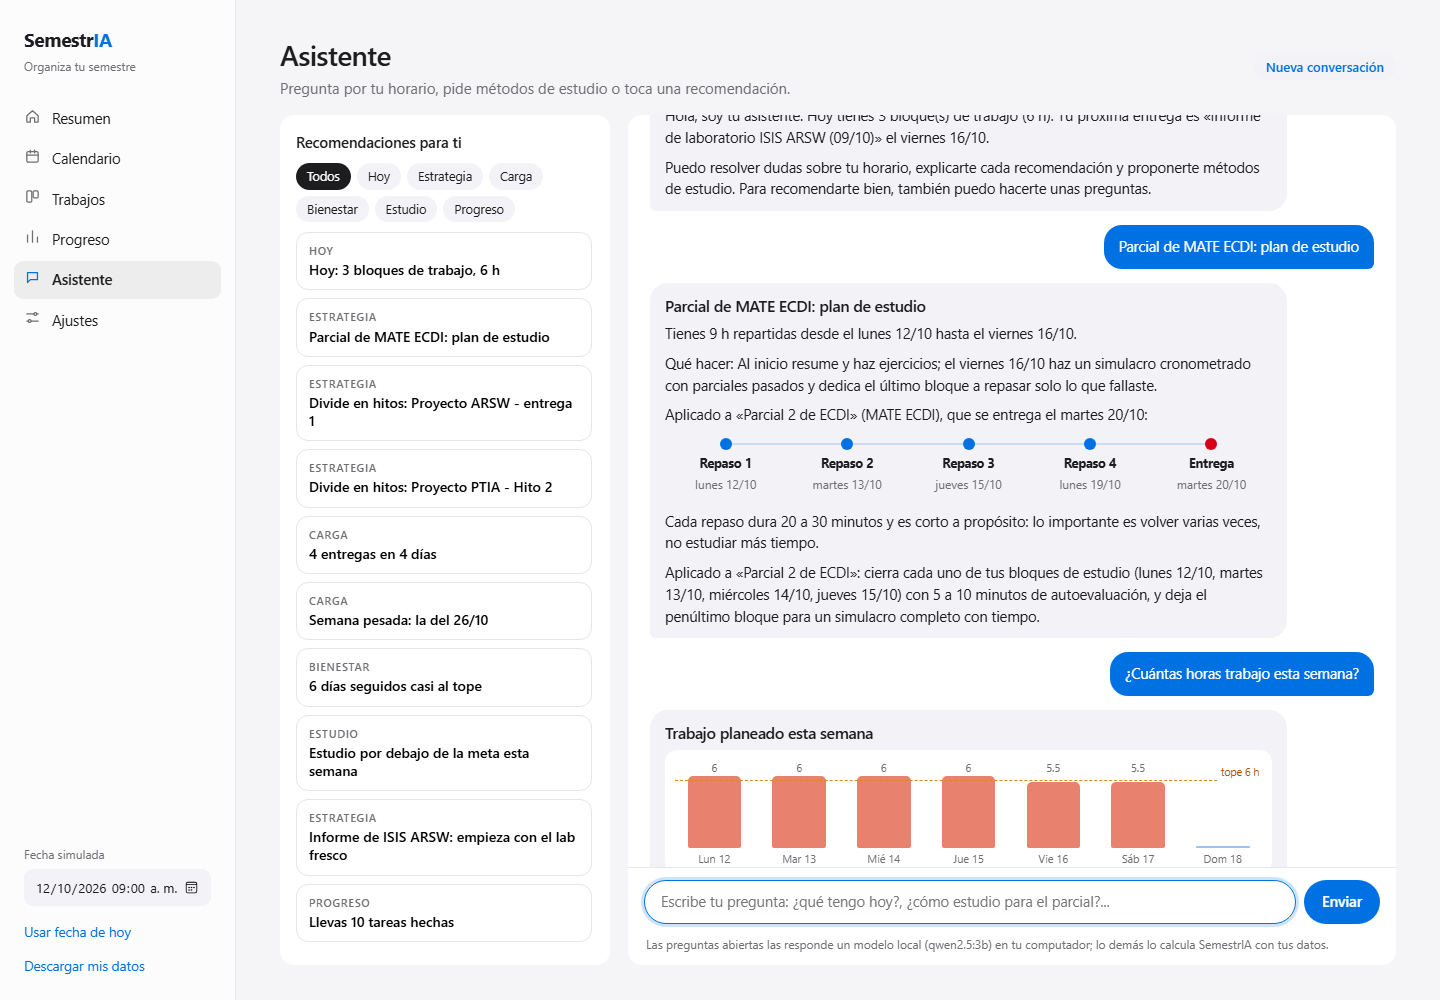
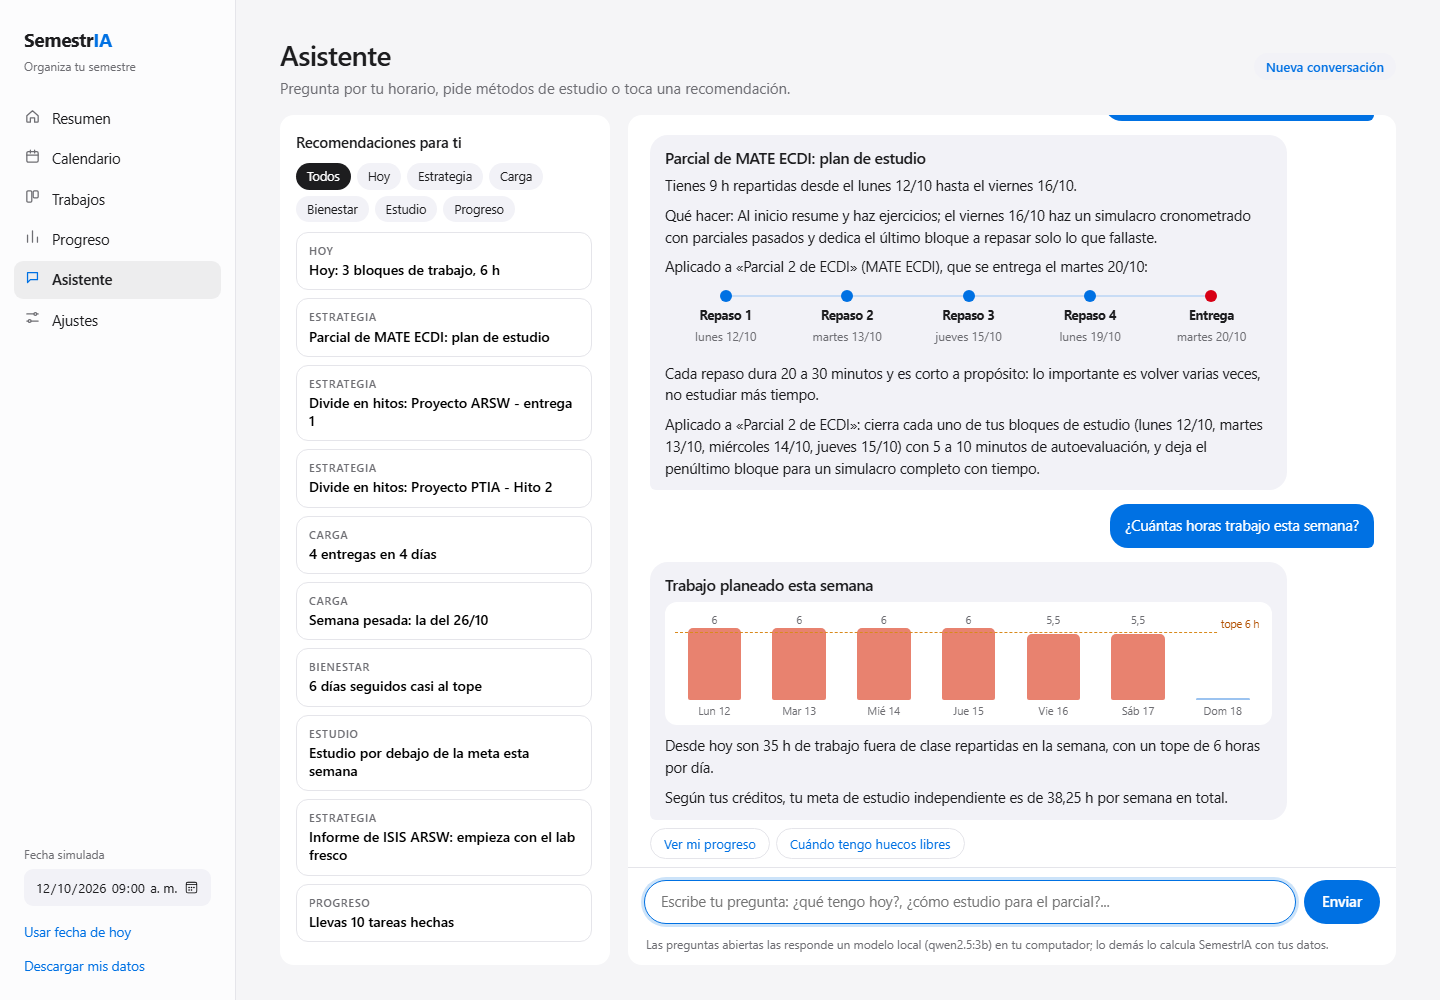
Reorganizar repo: herramientas/, sin duplicados ni capturas obsoletas; README renovado

diff --git a/documento/anexos/anexo_semestria.tex b/documento/anexos/anexo_semestria.tex
@@ -6,12 +6,12 @@
 
 \begin{verbatim}
 python servidor.py                                   # abre http://localhost:8000
-python demo.py                                       # plan en consola
+python herramientas/demo.py                                       # plan en consola
 python -m unittest discover -s pruebas -v            # pruebas automaticas
 python pruebas/evaluacion.py --figuras               # evaluacion del Hito 3
 python documento/generar_tablas.py                   # tablas y cifras del documento
-python diseno/capturar.py                            # capturas de pantalla (Edge o Chrome)
-python diseno/generar_diagramas.py                   # diagramas (requiere matplotlib)
+python herramientas/capturar.py                            # capturas de pantalla (Edge o Chrome)
+python herramientas/generar_diagramas.py                   # diagramas (requiere matplotlib)
 \end{verbatim}
 
 \textbf{Estructura:}
@@ -28,8 +28,8 @@ prototipo/          interfaz: index.html, app.js, asistente.js, estilos.css, asi
 datos/              horario_ejemplo.json (horario real del estudiante)
 pruebas/            test_motor.py, test_mvp.py, test_asistente.py, evaluacion.py
 resultados/         evaluacion.json y evaluacion.md (generados)
-documento/          este documento (LaTeX) y generar_tablas.py
-diseno/             diagramas, capturas y sus scripts
+documento/          este documento (LaTeX), con sus figuras en img/
+herramientas/      demo en consola, capturas y diagramas (scripts)
 archivo_hito2/      prototipo navegable del Hito 2 (con motor en JavaScript)
 \end{verbatim}
 

diff --git a/herramientas/capturar.py b/herramientas/capturar.py
@@ -1,8 +1,8 @@
 """Captura las pantallas del MVP con Edge/Chrome en modo headless (sin instalar nada extra).
 
-Uso:  python diseno/capturar.py
+Uso:  python herramientas/capturar.py
 Usa la ruta #demo=<pantalla> de la interfaz: fija la fecha del ejemplo (lunes 12/10/2026 09:00),
-no toca el almacenamiento del navegador del usuario y deja los PNG en diseno/pantallas_mvp/ y documento/img/.
+no toca el almacenamiento del navegador del usuario y deja los PNG en documento/img/ (pant_*.png).
 """
 import os
 import shutil
@@ -58,19 +58,16 @@ def main():
             break
         except OSError:
             time.sleep(0.2)
-    salida = os.path.join(aqui, "pantallas_mvp")
     destino = os.path.join(aqui, "..", "documento", "img")
-    os.makedirs(salida, exist_ok=True)
     os.makedirs(destino, exist_ok=True)
     perfil = tempfile.mkdtemp(prefix="semestria_perfil_")
     try:
         for nombre, demo, w, h in PANTALLAS:
-            png = os.path.join(salida, nombre + ".png")
+            png = os.path.join(destino, f"pant_{nombre}.png")
             subprocess.run([nav, "--headless", "--disable-gpu", "--hide-scrollbars", f"--user-data-dir={perfil}",
                             f"--window-size={w},{h}", "--virtual-time-budget=90000", f"--screenshot={png}", f"{base}#demo={demo}"],
                            check=True, capture_output=True, timeout=90)
             esperar(png)
-            shutil.copy(png, os.path.join(destino, f"pant_{nombre}.png"))
             print("ok", nombre)
     finally:
         srv.terminate()

diff --git a/herramientas/generar_diagramas.py b/herramientas/generar_diagramas.py
@@ -1,11 +1,12 @@
-"""Genera los diagramas de diseño (PNG) usados en el documento (MVP, Hito 3).\nUso:  python diseno/generar_diagramas.py\n"""
+"""Genera los diagramas de diseño (PNG) usados en el documento (MVP, Hito 3).\nUso:  python herramientas/generar_diagramas.py\n"""
 import os
 import matplotlib
 matplotlib.use("Agg")
 import matplotlib.pyplot as plt
 from matplotlib.patches import FancyBboxPatch, FancyArrowPatch
 
-aqui = os.path.dirname(os.path.abspath(__file__))
+aqui = os.path.join(os.path.dirname(os.path.abspath(__file__)), "..", "documento", "img")
+os.makedirs(aqui, exist_ok=True)
 NAVY, SAGE, SAGE_L, AMBER, ROSE, LAV, INK, GREY = "#1E3A5F", "#C6DEAB", "#E4F0D6", "#F7E8C3", "#F7D9D4", "#DFE3F2", "#16202B", "#6B7A89"
 plt.rcParams["font.family"] = "DejaVu Sans"
 
@@ -98,9 +99,4 @@ ax.text(10.0, 12.75, "Cada vez que el estudiante marca una tarea como hecha o ca
 ax.text(7.0, 2.25, "Las pasadas 1 y 2 usan los mismos huecos:\nprimero se ubican las entregas y solo después\nel estudio independiente.", ha="left", va="center", fontsize=9, color=GREY, linespacing=1.5)
 fig.savefig(os.path.join(aqui, "algoritmo.png"), bbox_inches="tight", facecolor="white")
 plt.close(fig)
-import shutil
-destino = os.path.join(aqui, "..", "documento", "img")
-os.makedirs(destino, exist_ok=True)
-for n in ("arquitectura.png", "algoritmo.png"):
-    shutil.copy(os.path.join(aqui, n), os.path.join(destino, n))
 print("ok")

diff --git a/herramientas/demo.py b/herramientas/demo.py
@@ -1,15 +1,17 @@
-"""Demo en consola: genera el plan recomendado con el horario real del equipo.
+"""Demo en consola: genera el plan recomendado con el horario real del estudiante.
 
-Uso:  python demo.py [archivo.json] [YYYY-MM-DD HH:MM]
+Uso:  python herramientas/demo.py [archivo.json] [YYYY-MM-DD HH:MM]
 """
+import os
 import sys
 from datetime import datetime, date
 
+sys.path.insert(0, os.path.join(os.path.dirname(os.path.abspath(__file__)), ".."))
 from motor.semestria import (DIAS, cargar, planificar, fecha, horas_independientes,
                              contacto_semanal_min, horas_totales_semana, creditos_de,
                              semana_del_semestre, paridad)
 
-ruta = sys.argv[1] if len(sys.argv) > 1 else "datos/horario_ejemplo.json"
+ruta = sys.argv[1] if len(sys.argv) > 1 else os.path.join(os.path.dirname(os.path.abspath(__file__)), "..", "datos", "horario_ejemplo.json")
 ahora = datetime.fromisoformat(sys.argv[2]) if len(sys.argv) > 2 else datetime(2026, 10, 12, 9, 0)
 datos = cargar(ruta)
 

diff --git a/README.md b/README.md
@@ -1,55 +1,73 @@
-# SemestrIA (PTIA, Escuela Colombiana de Ingeniería)
+# SemestrIA
 
-Asistente de IA que convierte el **horario fijo**, los **créditos** y los **trabajos** de un estudiante en un plan
-semanal explicable (qué trabajar, cuándo y por qué), con recomendaciones concretas y estimaciones que se calibran con
-las horas reales que registra la persona.
+Asistente de IA que convierte el **horario fijo**, los **créditos** y los **trabajos** de un estudiante en un plan semanal explicable (qué trabajar, cuándo y por qué). Incluye un asistente de chat que responde sobre el horario y recomienda métodos de estudio, y una sección de progreso.
 
-**Estado: Hito 3 (MVP).** Ver `docs/REVISION_HITOS.md` para la revisión por hitos frente a los lineamientos.
+Proyecto de curso PTIA, Escuela Colombiana de Ingeniería Julio Garavito. **Estado: Hito 3 (MVP).**
 
-## Ejecutar (Python 3.10+, sin dependencias)
+## Inicio rápido
+
+Requiere Python 3.10 o superior. No hay que instalar nada.
+
 ```bash
-python servidor.py                                 # abre http://localhost:8000
-python demo.py                                     # plan en consola
-python -m unittest discover -s pruebas -v          # 73 pruebas automáticas
-python pruebas/evaluacion.py --figuras             # evaluación del Hito 3 (resultados/ y figuras)
+python servidor.py        # abre la aplicación en http://localhost:8000
 ```
-`python diseno/capturar.py` (capturas, requiere Edge o Chrome) y `python diseno/generar_diagramas.py` (requiere matplotlib).
 
-## Flujo de uso
-**Asistente de 4 pasos:** 1) subir un horario JSON (validado) o usar el de prueba, 2) revisar horario y créditos,
-3) registrar trabajos, 4) revisión final y **Empezar mi semestre** (queda fijado).
-**Panel:** Resumen · Calendario (semana y mes) · Trabajos (tablero Por hacer / En curso / Hecho) · **Progreso** (horas cumplidas frente a las necesarias, tareas realizadas, mapa de actividad y rachas) · **Asistente** (chat) · Ajustes (calibración y asistente).
+En la pantalla de inicio se sube un horario (JSON) o se usa el de ejemplo, y se sigue el asistente de cuatro pasos hasta **Empezar mi semestre**.
 
-**Asistente.** Las recomendaciones son tarjetas: al tocar una, el chat la explica con pasos, fechas de tu plan, gráficas simples y la evidencia que la respalda. Puedes preguntar por tu horario («¿qué tengo hoy?», «¿voy atrasado?») y por métodos de estudio y bienestar; también te hace cinco preguntas y arma tu plan de estudio personal. Funciona en dos capas: lo que depende de tus datos y de los métodos lo calcula el motor (instantáneo y verificable); las preguntas abiertas las puede redactar un **modelo local con Ollama** si lo tienes instalado (se detecta solo; tus datos no salen del computador; se desactiva en Ajustes o con `SEMESTRIA_SIN_LLM=1`).
+Para ver pantallas con datos de demostración, abre `http://localhost:8000/#demo=progreso` (otros valores: `asistente`, `asistente_perfil`, `calendario`, `trabajos`, `resumen`, `ajustes`).
 
-**Qué IA usa.** Núcleo simbólico (reglas y planificación heurística EDF) con aprendizaje estadístico ligero (calibración); sin redes neuronales propias. Solo la capa opcional del chat usa un modelo de lenguaje preentrenado local. Detalle en `docs/TIPO_DE_IA.md`.
+## Qué hace
 
-**Progreso.** Se alimenta de lo que registras: marcar bloques como cumplidos, anotar las horas reales al terminar un trabajo y abrir la aplicación.
+| Sección | Para qué sirve |
+|---|---|
+| Resumen | Agenda de hoy, próximas entregas, indicadores y recomendaciones |
+| Calendario | Semana y mes, con clases, tareas, estudio y entregas; cada bloque explica su motivo |
+| Trabajos | Tablero Por hacer / En curso / Hecho; al terminar un trabajo se registran las horas reales |
+| Progreso | Horas cumplidas frente a las necesarias, tareas realizadas, mapa de actividad y rachas |
+| Asistente | Chat: explica las recomendaciones, responde sobre el horario, recomienda métodos de estudio y hace una entrevista de 5 preguntas para armar un plan personal |
+| Ajustes | Calibración aprendida y opciones del asistente |
+
+## Qué IA usa
+
+Es un sistema **simbólico** (reglas y planificación heurística EDF) con **aprendizaje estadístico ligero** (la calibración con las horas reales). No usa redes neuronales propias. Solo la capa opcional del chat usa un **modelo de lenguaje local** (Ollama, por ejemplo `qwen2.5:3b`), que redacta respuestas a preguntas abiertas y nunca decide el plan; se desactiva en Ajustes o con `SEMESTRIA_SIN_LLM=1`. Todo corre en tu computador. Detalle en [docs/TIPO_DE_IA.md](docs/TIPO_DE_IA.md).
+
+## Comandos
+
+```bash
+python -m unittest discover -s pruebas -v      # 73 pruebas automáticas
+python pruebas/evaluacion.py --figuras         # evaluación del Hito 3 (resultados/ y figuras)
+python herramientas/demo.py                    # plan en consola
+python documento/generar_tablas.py             # tablas y cifras del documento
+python herramientas/capturar.py                # capturas de pantalla (requiere Edge o Chrome)
+python herramientas/generar_diagramas.py       # diagramas (requiere matplotlib)
+```
 
 ## Estructura
+
 | Ruta | Contenido |
 |---|---|
-| `motor/semestria.py` | Planificador: créditos a horas, huecos, entregas automáticas, EDF con topes de bienestar |
-| `motor/calibracion.py` | Factor aprendido de las horas reales (promedio geométrico encogido hacia 1) |
-| `motor/asesor.py` | Validación de horarios importados y recomendaciones |
-| `motor/asistente.py` | Asistente: intenciones, métodos de estudio con evidencia, entrevista, puente opcional al modelo local |
-| `motor/progreso.py` | Estadísticas de progreso y rachas |
-| `servidor.py` | Servidor local (biblioteca estándar) y API JSON: `/api/ejemplo`, `/api/importar`, `/api/plan`, `/api/chat`, `/api/chat_llm`, `/api/asistente_estado` |
-| `prototipo/` | Interfaz (`index.html`, `app.js`, `asistente.js`, `estilos.css`, `asistente.css`) |
-| `datos/horario_ejemplo.json` | Horario real del equipo (los créditos de algunas materias son supuestos) |
-| `pruebas/` | `test_motor.py`, `test_mvp.py`, `test_asistente.py` y `evaluacion.py` (casos, simulación y calibración) |
+| `servidor.py` | Servidor local (biblioteca estándar) y API JSON |
+| `motor/` | Lógica: `semestria.py` (planificador), `calibracion.py`, `asesor.py` (validación y recomendaciones), `asistente.py` (chat y métodos de estudio), `progreso.py` |
+| `prototipo/` | Interfaz web sin dependencias (HTML, CSS y JavaScript) |
+| `datos/` | `horario_ejemplo.json`, el horario de ejemplo |
+| `pruebas/` | Pruebas unitarias y `evaluacion.py` (casos, simulación y calibración) |
 | `resultados/` | Salida de la evaluación (`evaluacion.json`, `evaluacion.md`) |
-| `documento/` | Documento del proyecto en la plantilla LaTeX (ver `documento/README.md`) |
+| `documento/` | Documento del proyecto en la plantilla LaTeX (ver [documento/README.md](documento/README.md)) |
 | `docs/` | Revisión por hitos, tipo de IA y guion del video |
-| `diseno/` | Diagramas y capturas del MVP (`pantallas_mvp/`) y sus scripts |
-| `archivo_hito2/` | Prototipo navegable del Hito 2 (con motor en JavaScript), conservado como historial |
+| `herramientas/` | Scripts de apoyo: demo en consola, capturas y diagramas |
+| `archivo_hito2/` | Prototipo del Hito 2 (con motor en JavaScript), conservado como historial |
+
+API: `GET /api/ejemplo`, `GET /api/asistente_estado`, `POST /api/importar`, `POST /api/plan`, `POST /api/chat`, `POST /api/chat_llm`.
 
 ## Formato del horario
-Ver el anexo del documento o descargar la plantilla desde la pantalla de inicio. Campos obligatorios: `semestre_inicio` y `bloques`.
 
-## Limitaciones conocidas
+Los campos obligatorios son `semestre_inicio` y `bloques`. El formato completo está en el anexo del documento, y la pantalla de inicio permite descargar una plantilla.
+
+## Limitaciones
+
 - Evaluado con un horario real y simulaciones; **no hay evaluación con usuarios**.
-- Las horas base por tipo de trabajo y los márgenes por dificultad son supuestos propios (la calibración los corrige con datos del usuario).
+- Las horas base por tipo de trabajo y los márgenes por dificultad son supuestos propios; la calibración los corrige con los datos del usuario.
 - El horario no se lee desde una imagen o PDF: entra como JSON o se arma en la interfaz.
-- Los consejos de métodos de estudio vienen de una base propia con referencias a la literatura (verificar las citas antes de usarlas en un trabajo); el modelo local, si se usa, es pequeño y puede equivocarse: sus respuestas van marcadas.
-- El estado se guarda en el navegador (localStorage); se puede descargar desde la barra lateral.
+- Los métodos de estudio vienen de una base propia con referencias a la literatura; el modelo local, si se usa, es pequeño y puede equivocarse, y sus respuestas van marcadas.
+- El estado se guarda en el navegador (localStorage) y se puede descargar desde la barra lateral.
+- Los créditos de algunas materias del horario de ejemplo son supuestos.

diff --git a/docs/GUION_VIDEO_HITO3.md b/docs/GUION_VIDEO_HITO3.md
@@ -1,17 +1,17 @@
 # Guion del video del Hito 3 (máx. 10 min)
 
-Los lineamientos piden "resultados y demo del MVP". Tiempos sugeridos para dos personas; ensayar una vez con la app abierta.
+Los lineamientos piden "resultados y demo del MVP". Tiempos sugeridos para una sola persona; ensayar una vez con la app abierta.
 
 **Preparación:** `python servidor.py`, abrir http://localhost:8000 en una ventana limpia (o con `#demo=` para datos fijos), zoom del navegador al 110 %, pestaña con `resultados/evaluacion.md` y otra con el PDF.
 
-| Tiempo | Quién | Contenido | En pantalla |
-|---|---|---|---|
-| 0:00–0:45 | A | El problema: 20 créditos = 60 h/semana, solo 21,8 en clase; 38,3 h de estudio independiente que nadie planea. Cuatro entregas en cuatro días | Diapositiva o sección *Justificación* |
-| 0:45–1:45 | B | La solución y dónde está la IA: conocimiento (créditos, dificultad), razonamiento (planificador EDF con topes) y aprendizaje (calibración). Por qué no un LLM: verificable y determinista | Figura de arquitectura |
-| 1:45–6:00 | A y B | **Demo del MVP** (ver abajo) | La aplicación |
-| 6:00–8:15 | B | Resultados: 8/8 criterios; CP1 y CP3; comparación con "último momento"; calibración | Tablas y figuras del documento |
-| 8:15–9:30 | A | Conclusiones: 2 aciertos, 2 errores, límites (sin usuarios reales) y trabajo futuro (piloto) | Sección *Conclusiones* |
-| 9:30–10:00 | A y B | Cierre y dónde está el código | Repositorio |
+| Tiempo | Contenido | En pantalla |
+|---|---|---|
+| 0:00–0:45 | El problema: 20 créditos = 60 h/semana, solo 21,8 en clase; 38,3 h de estudio independiente que nadie planea. Cuatro entregas en cuatro días | Diapositiva o sección *Justificación* |
+| 0:45–1:45 | La solución y dónde está la IA: conocimiento (créditos, dificultad), razonamiento (planificador EDF con topes) y aprendizaje (calibración). Tipo de IA: simbólica con aprendizaje estadístico, sin redes neuronales propias; el modelo de lenguaje local es opcional y no decide el plan (ver `docs/TIPO_DE_IA.md`) | Figura de arquitectura |
+| 1:45–6:00 | **Demo del MVP** (ver abajo) | La aplicación |
+| 6:00–8:15 | Resultados: 8/8 criterios; CP1 y CP3; comparación con "último momento"; calibración | Tablas y figuras del documento |
+| 8:15–9:30 | Conclusiones: 2 aciertos, 2 errores, límites (sin usuarios reales) y trabajo futuro (piloto) | Sección *Conclusiones* |
+| 9:30–10:00 | Cierre y dónde está el código | Repositorio |
 
 ## Demo (1:45–6:00)
 
@@ -22,7 +22,8 @@ Los lineamientos piden "resultados y demo del MVP". Tiempos sugeridos para dos p
 5. **Resumen** (30 s): agenda de hoy, próxima entrega y las recomendaciones principales.
 6. **Calendario** (45 s): semana, tocar un bloque y leer el motivo; pasar a **Mes**.
 7. **Tablero** (45 s): arrastrar una tarjeta a *En curso*; marcar otra como **Hecho** y escribir las horas reales ("me tomó 4 h").
-8. **Recomendaciones** (30 s): leer una con fecha y acción concreta.
+8. **Asistente** (45 s): tocar una recomendación y ver cómo el chat la explica; preguntar «¿qué tengo hoy?»; mostrar la entrevista de 5 preguntas y el plan personal.
+8b. **Progreso** (20 s): horas cumplidas frente a las necesarias, mapa de actividad y rachas; marcar un bloque como cumplido y ver cómo cambia.
 9. **Ajustes** (20 s): tabla de calibración con el factor aprendido; ver cómo cambió una estimación.
 10. **Caso límite** (20 s): agregar un proyecto de 40 h para mañana y mostrar la advertencia "no alcanza el tiempo" y la recomendación urgente.
 

diff --git a/documento/README.md b/documento/README.md
@@ -8,7 +8,7 @@ En **Overleaf**: subir esta carpeta, elegir compilador **XeLaTeX** y abrir `main
 ## Antes de entregar
 1. Completar los placeholders (`python documento/verificar_latex.py` los lista): grupo, segundo integrante y fecha en `content/portada.tex`, y nombres y fecha en `content/declaracion.tex`.
 2. Confirmar los problemas 2 y 3 de `content/introduccion.tex` y las calificaciones de la tabla de selección en `content/descripcion_problema.tex` (son una propuesta).
-3. Referencias verificadas por búsqueda web (ver `docs/VERIFICACION_REFERENCIAS.md`); falta confirmar a mano el artículo exacto del Decreto 1330 y las URL.
+3. Referencias verificadas por búsqueda web el 2026-11-21 (autores, revista, volumen y páginas); falta confirmar a mano el artículo exacto del Decreto 1330 (Gestor Normativo de Función Pública) y que abran las URL de Reclaim, Motion y Ollama.
 4. Revisar el PDF: no se pudo compilar en la máquina donde se redactó; `verificar_latex.py` solo comprueba la estructura (entornos, referencias, citas, imágenes).
 
 ## Regenerar cifras, tablas y figuras
@@ -17,7 +17,7 @@ Los números del texto salen de la evaluación; no se escriben a mano.
 ```bash
 python pruebas/evaluacion.py --figuras   # resultados/ y documento/img/fig_*.png
 python documento/generar_tablas.py       # documento/auto/*.tex
-python diseno/capturar.py                # capturas de la interfaz (documento/img/pant_*.png)
-python diseno/generar_diagramas.py       # arquitectura y algoritmo
+python herramientas/capturar.py                # capturas de la interfaz (documento/img/pant_*.png)
+python herramientas/generar_diagramas.py       # arquitectura y algoritmo
 python documento/verificar_latex.py      # revisión estática
 ```

diff --git a/docs/REVISION_HITOS.md b/docs/REVISION_HITOS.md
@@ -26,7 +26,7 @@ lo que se hizo en esta entrega.
 | 6a. Estrategia general y justificación | Implícita en el código | Sección *Diseño*: estrategia y tabla de alternativas (optimización, LLM, aprendizaje supervisado) |
 | 6b. Dónde está la inteligencia | **Nunca se explicitó** | Conocimiento, razonamiento y aprendizaje, con las fórmulas |
 | 6c. Herramienta y justificación | Sin justificar | Justificada (solo biblioteca estándar, reproducible) |
-| 6d. Arquitectura | Diagrama del Hito 2 desactualizado | Rehecho para el MVP (`diseno/arquitectura.png`) |
+| 6d. Arquitectura | Diagrama del Hito 2 desactualizado | Rehecho para el MVP (`documento/img/arquitectura.png`) |
 | 6e. Componente principal | Sin descripción | Planificador: pasos, parámetros, ejemplo real y costo |
 | Prototipo de interfaz (navegable) | Bien; la lectura de la imagen del horario estaba **simulada** | Reemplazada por importación JSON validada; la lectura de imágenes se declara fuera de alcance |
 | Fuentes del diseño y del código | Sin referencias ni procedencia | Subsección *Fuentes del diseño y del código* y bibliografía |
